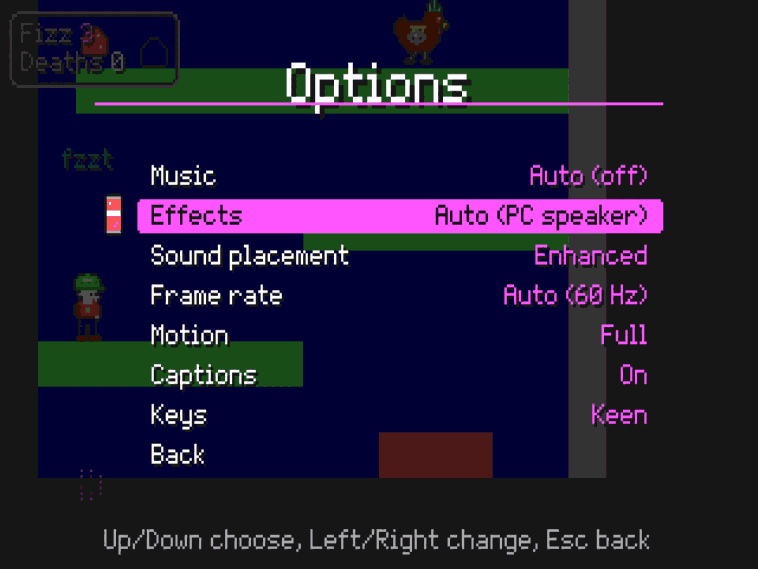
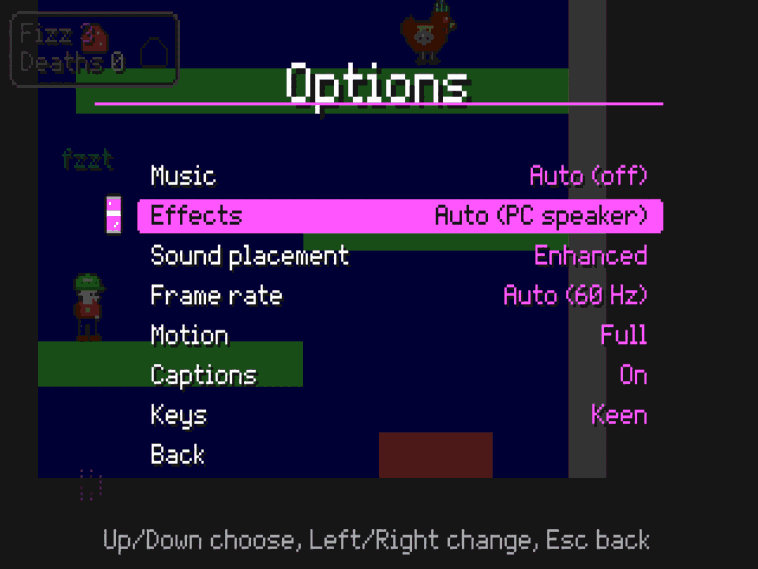
docs: describe the grape can and retake the menu screenshots
SPRITES.md, PLATFORM.md, the manual and the changelog say the can is
grape; the four manual screenshots that show it are retaken. The archive
media under tools/progress-report/media still show the red can and will be
retaken in the next archive refresh.

diff --git a/docs/PLATFORM.md b/docs/PLATFORM.md
@@ -233,7 +233,7 @@ The frame digests (`BENCH FRAME`, eleven ticks) now cover the whole frame instea
 
 The Options and Paused screens are drawn by `crates/fizz-present-dos/src/menu.rs` from the `RowList` that `fizz-menu` returns, in Fizz 1's DOS look (`options_screen` and `plate_rows` in its `shell.rs`). The layout is for the 320 by 200 frame this presenter owns; the Web draws its own overlay. The whole frame is dimmed once, when the screen opens (`MenuView::open`): every pixel `p` becomes `16 + (p & 15)`, the dimmed half of the palette the HUD box already uses (a pixel that is already dimmed keeps its colour), and the result is a second `Frame` held by the `MenuView`. Each redraw copies that background into the frame being presented and draws on top, so the picture beneath never changes while the screen is up. `draw_options`, `draw_paused` and `draw` return whether they drew: they compare a digest of everything the screen shows (heading, footer, the note, the can's height and every row's label, value and selection) with the last draw's, and a key that changed nothing, or any tick within the same 20-tick half of the bob, draws nothing and asks for no copy to the screen. `open` and `invalidate` force the next draw.
 
-The geometry, in pixels: the heading is white in the pixel font at 2x (`pfont::draw_text_scaled`) with a black shadow, centred, its top at y=22, with a one-pixel rule in the Fizz colour across x 40 to 279 at y=36 (the 'p' of Options reaches the rule's row and is drawn over it). Rows start at y=56 with a pitch of 14. The column is x 40 to 279: the left 18 pixels are the gutter and the plate takes the rest (x 58 to 279). The chosen row is a solid plate of the Fizz colour 12 pixels high with its four corner pixels left out, with its label at 6 pixels in and its value right-aligned 6 pixels from the right edge, both in black. Fizz 1's soda can (the `soda` sprite, exported from Fizz 1 with its bubbles recoloured to the Fizz colour) stands in the gutter at x=40, two pixels above the row, and rises one more pixel every 20 ticks. The other rows have a white label and a Fizz-coloured value, each with a one-pixel black shadow. When a row shows `*`, a grey note (`OVERRIDE_NOTE`) is at y=172, and a grey footer is centred at y=186: "Up/Down choose, Left/Right change, Esc back", or on Paused "Up and Down choose, Enter selects, Esc resumes". The pixel font has no arrows, so none are drawn. A test over every row of both platforms, every choice, every machine kind and every override marking checks that a label and its value fit the plate with a space between them, and that the note, footers and headings fit the frame. The screens are tested by pinned frame digests of Paused, each selected Options row, a `*` row and a missing-device row over a synthetic picture; the `MenuView` and a picture are about 130 KB, so the caller should keep them in a `static` or the heap rather than on the 256 KB stack with more.
+The geometry, in pixels: the heading is white in the pixel font at 2x (`pfont::draw_text_scaled`) with a black shadow, centred, its top at y=22, with a one-pixel rule in the Fizz colour across x 40 to 279 at y=36 (the 'p' of Options reaches the rule's row and is drawn over it). Rows start at y=56 with a pitch of 14. The column is x 40 to 279: the left 18 pixels are the gutter and the plate takes the rest (x 58 to 279). The chosen row is a solid plate of the Fizz colour 12 pixels high with its four corner pixels left out, with its label at 6 pixels in and its value right-aligned 6 pixels from the right edge, both in black. Fizz 1's soda can (the `soda` sprite, exported from Fizz 1 and recoloured grape: a light magenta body with white bubbles) stands in the gutter at x=40, two pixels above the row, and rises one more pixel every 20 ticks. The other rows have a white label and a Fizz-coloured value, each with a one-pixel black shadow. When a row shows `*`, a grey note (`OVERRIDE_NOTE`) is at y=172, and a grey footer is centred at y=186: "Up/Down choose, Left/Right change, Esc back", or on Paused "Up and Down choose, Enter selects, Esc resumes". The pixel font has no arrows, so none are drawn. A test over every row of both platforms, every choice, every machine kind and every override marking checks that a label and its value fit the plate with a space between them, and that the note, footers and headings fit the frame. The screens are tested by pinned frame digests of Paused, each selected Options row, a `*` row and a missing-device row over a synthetic picture; the `MenuView` and a picture are about 130 KB, so the caller should keep them in a `static` or the heap rather than on the 256 KB stack with more.
 
 `FIZZ2.EXE /MENUSHOT` (a hidden developer switch) draws the two screens over the slice's first frame (the Options screen with the cursor on Effects, the Frame rate row starred and a Sound Blaster 16 machine, then the Paused screen), presents each and prints `MENUSHOT options <digest>` and `MENUSHOT paused <digest>`. The host's `menushot` example (`cargo run -p fizz-present-dos --example menushot [dir]`) prints the same lines, and with a directory also writes `options.ppm` and `paused.ppm` in the DOS palette; `tools/check-dos.sh` requires the two sets of lines to be equal, so the DOS build is proved to draw the pixels the portable code does.
 
@@ -265,7 +265,7 @@ The Web page has two screens over the picture, Paused (Resume, Options, Restart)
 
 While a screen is up `App::frame` drops the pacer and returns 0, so no tick runs and the first frame after resuming only restarts the pacer: time spent in the menu is never caught up. `App::hold()` does the same on request. The rules, the replay and the state hash never read any menu state (a host test checks the hash is untouched; `tools/check-web-options.py` plays the golden replay with the screens opened and changed in the middle of it and checks `0edebb797e63edff`). The page releases every held key as a screen opens.
 
-`web/options.ts` has two halves. The pure half reads, migrates and writes one `localStorage` blob, `fizz2-options`, `{"v":1,"sound","music","placement","motion","captions","keys"}` with the words `on` or `off`, `enhanced` or `classic`, `system`, `reduced` or `full`, `keen` or `modern`; a field that is missing or wrong falls back to its default alone, and storage that throws gives the defaults. When the blob is absent the six older keys (`fizz2-layout`, `fizz2-captions`, `fizz2-motion`, `fizz2-audio`, `fizz2-sound`, `fizz2-music`) are read once, written as the blob and removed. `main.js` loads the blob into the module with `set_value`, applies every change as it happens (`Sfx.setMuted`, `setMode`, `Music.setEnabled`, the layout with `releaseAll`, `App::set_captions`, `App::set_shake`) and saves after each one; `Sfx` and `Music` are made with no storage of their own. A `?audio=` address is pushed as the Placement value and marked with `App::set_override`, so the row shows `Classic *` and the note `OVERRIDE_NOTE`; it is not saved unless the player changes the row. The DOM half is the overlay, in Fizz 1's Web menu look (`packages/engine/src/menu/rows.ts`, `rows.css` and `tokens.css`): a panel of `rgba(12, 12, 16, 0.82)`, the Fizz pixel font at the HUD's whole-number scale (kept small enough that a row fits a narrow stage), the selected row as a plate in `var(--fizz)` stepping through `#ff55ff`, `#ff77ff` and `#ff99ff` with ink `#1a001a` and Fizz 1's clipped corners, Fizz 1's soda can (light magenta bubbles) bobbing as the bullet, values muted and `◄ value ►` on the selected choice. It is a `role=dialog` with `aria-modal` holding a `role=menu` of `menuitem`s, each with an `aria-label` of the label and value; focus moves to the selected row on open and returns to where it was on close; a `role=status` live region says each change; the plate and the can stop under `prefers-reduced-motion` and when Motion resolves to Reduced. Rows are drawn once per screen and updated in place, so a pointer press is never lost to a rebuild. `web/options.test.ts` covers the pure half; `tools/check-web-options.py` drives the built page.
+`web/options.ts` has two halves. The pure half reads, migrates and writes one `localStorage` blob, `fizz2-options`, `{"v":1,"sound","music","placement","motion","captions","keys"}` with the words `on` or `off`, `enhanced` or `classic`, `system`, `reduced` or `full`, `keen` or `modern`; a field that is missing or wrong falls back to its default alone, and storage that throws gives the defaults. When the blob is absent the six older keys (`fizz2-layout`, `fizz2-captions`, `fizz2-motion`, `fizz2-audio`, `fizz2-sound`, `fizz2-music`) are read once, written as the blob and removed. `main.js` loads the blob into the module with `set_value`, applies every change as it happens (`Sfx.setMuted`, `setMode`, `Music.setEnabled`, the layout with `releaseAll`, `App::set_captions`, `App::set_shake`) and saves after each one; `Sfx` and `Music` are made with no storage of their own. A `?audio=` address is pushed as the Placement value and marked with `App::set_override`, so the row shows `Classic *` and the note `OVERRIDE_NOTE`; it is not saved unless the player changes the row. The DOM half is the overlay, in Fizz 1's Web menu look (`packages/engine/src/menu/rows.ts`, `rows.css` and `tokens.css`): a panel of `rgba(12, 12, 16, 0.82)`, the Fizz pixel font at the HUD's whole-number scale (kept small enough that a row fits a narrow stage), the selected row as a plate in `var(--fizz)` stepping through `#ff55ff`, `#ff77ff` and `#ff99ff` with ink `#1a001a` and Fizz 1's clipped corners, Fizz 1's soda can (a grape body, white bubbles, the same grid as the DOS sprite) bobbing as the bullet, values muted and `◄ value ►` on the selected choice. It is a `role=dialog` with `aria-modal` holding a `role=menu` of `menuitem`s, each with an `aria-label` of the label and value; focus moves to the selected row on open and returns to where it was on close; a `role=status` live region says each change; the plate and the can stop under `prefers-reduced-motion` and when Motion resolves to Reduced. Rows are drawn once per screen and updated in place, so a pointer press is never lost to a rebuild. `web/options.test.ts` covers the pure half; `tools/check-web-options.py` drives the built page.
 
 ## Running the checks
 

diff --git a/CHANGELOG.md b/CHANGELOG.md
@@ -5,6 +5,7 @@ What changed in each release of Lieutenant Fizz 2, in plain language for players
 ## Unreleased
 
 - Every word has a sound, as in Lieutenant Fizz 1, and so does the jump: `fzzt`, `fizzled`, `bonk`, `whoa!`, `ta-da!`, the gumdrops, `clunk`, `click - no fizz`, `boing`, a jump and `crunch` (eleven new effects, written as Undertone voices with FM and pitch steps; the chicken keeps its four clucks). They come from where they happen, panned and softened like the cluck, on the Web, and on DOS through the Sound Blaster's stereo pair, the AdLib's one voice or the PC speaker, whichever the computer has. They play with the Captions setting on or off, a sound is not left out when its word is, and on DOS the newest sound cuts the one before it off, as in Fizz 1. The sounds are first drafts and nobody has listened to them yet. On the Web, the panel you open with `H` has a new list, "Hear an effect", that plays any of the fifteen by itself. `FIZZ2.EXE` grows by about 10 KB (the sounds are 6 KB of that). All hashes are unchanged.
+- The fizzy drink can in the Paused and Options screens is purple now, the grape colour of Fizz in this game, with white bubbles, on DOS and on the Web (it was Fizz 1's red). Only the can's colours change; all hashes are unchanged.
 - `FIZZ2.EXE /BENCH` also times the picture with six captions on screen and prints the extra cost; with `/AUDIO` it does the same while effects play.
 - Show a word where things happen, as Lieutenant Fizz 1 does: `fzzt`, `click - no fizz`, `fizzled`, `bonk`, `whoa!`, `ta-da!`, the red, blue and green `gumdrop`, `clunk` for doors and head bumps, `boing` and `crunch`, in Fizz 1's colours, on the Web and on DOS, and hidden by the Captions setting (which still hides only the words). A repeat of the same word within a fifth of a second is left out, six words show at most, and a word far outside the picture is not shown. A new table in `fizz-slice-view` also names the sound each event uses (ids 0 to 14). The chicken's own caption and all hashes are unchanged.
 - The gallery at the top of the level is now a small playground: a snack nook with cheezies, a chocolate bar, a cookie and a blue key on a shelf you reach on the pogo stick, a blue door in front of the exit, and a spot to bump your head. Taking a snack, bumping, bouncing, the empty blaster click and opening the blue door all happen in play now, each with its sound. The built-in test run is longer (1,681 steps, about 28 seconds on DOS).

diff --git a/docs/SPRITES.md b/docs/SPRITES.md
@@ -72,7 +72,7 @@ Where a shot ends Fizz 1 pushes a 16 by 16 `puff` (`puff()` in `enemies.ts`: a d
 
 ## The Fizz recolour
 
-Fizz 2 draws everything called Fizz in one accent colour, light magenta (EGA 13, `#ff55ff`, "grape"), defined once in `crates/fizz-view/src/theme.rs`; Fizz 1 draws them in cyan. The recolour is a step of `tools/sprites/export-fizz1.ts`, not a hand edit of the grids: `FIZZ_RECOLOUR` lists, by sprite name, the letters to swap after the Fizz 1 grid is read and before it is written (light cyan `c` to light magenta `m`; cyan `C` and light blue `b`, the puff's core and the shot's body, to magenta `M`), so `fizz1-slice.json` stays a pure function of Fizz 1 and the table, and two runs give identical bytes. It covers `bubble` (Ben's shot) and `puff0` to `puff3`. The table also names `soda`, Fizz 1's soda can, whose two bubble pixels are light cyan: the can is not in the slice yet, and the entry takes effect when it joins `SLICE_NAMES`. After changing the table, run the exporter, then `bun tools/sprites/emit-rust.ts`; `--check` stays green only when both are done.
+Fizz 2 draws everything called Fizz in one accent colour, light magenta (EGA 13, `#ff55ff`, "grape"), defined once in `crates/fizz-view/src/theme.rs`; Fizz 1 draws them in cyan. The recolour is a step of `tools/sprites/export-fizz1.ts`, not a hand edit of the grids: `FIZZ_RECOLOUR` lists, by sprite name, the letters to swap after the Fizz 1 grid is read and before it is written (light cyan `c` to light magenta `m`; cyan `C` and light blue `b`, the puff's core and the shot's body, to magenta `M`), so `fizz1-slice.json` stays a pure function of Fizz 1 and the table, and two runs give identical bytes. It covers `bubble` (Ben's shot) and `puff0` to `puff3`. It also covers `soda`, Fizz 1's soda can (the menus' bullet), recoloured as a whole since the can became grape: its light red body `r` becomes light magenta `m`, and its two light cyan bubble pixels `c` become white `W` (light magenta bubbles would vanish on a light magenta body); the grey rim, the white band and highlight and the black outline are kept. The Web Options overlay's `SODA_ROWS` is the same grid, and `web/options.test.ts` compares it to `fizz1-slice.json`. After changing the table, run the exporter, then `bun tools/sprites/emit-rust.ts`; `--check` stays green only when both are done.
 
 ## Which Ben frame the slice shows
 

diff --git a/docs/MANUAL.md b/docs/MANUAL.md
@@ -354,7 +354,7 @@ The page is the game: the picture fills the whole window and nothing scrolls. It
 
 Press `Esc` (or the Pause key) and the game stops. A dark panel opens over the picture with three rows: Resume, Options and Restart. Move with Up and Down, choose with Enter, Space or the mouse, and press `Esc` again to resume. Restart starts the level again from the first tick, and Options opens the settings. The game is held for as long as either screen is up: nothing moves, the tick stops, and when you resume it carries on from where it stopped, with no catching up. The `Options (Esc)` button in the `H` panel opens the settings directly, and Back from there goes back to the game. In fullscreen the browser uses the first `Esc` to leave fullscreen; press `Esc` or the Pause key again to pause.
 
-The selected row is a bright light magenta plate (the grape colour of Fizz 2) that shimmers through three shades, with a can of fizzy drink bobbing beside it; Fizz 1's menus look the same in amber. On a row you can change, the selected row shows `◄ value ►`; Left steps back one choice, Right, Enter and Space step forward, and the choices wrap round. With the mouse, hovering a row selects it, clicking steps it, and clicking the arrows steps it the way the arrow points. A change takes effect at once and is remembered. The rows are:
+The selected row is a bright light magenta plate (the grape colour of Fizz 2) that shimmers through three shades, with a purple can of fizzy drink (grape, with white bubbles) bobbing beside it; Fizz 1's menus look the same in amber. On a row you can change, the selected row shows `◄ value ►`; Left steps back one choice, Right, Enter and Space step forward, and the choices wrap round. With the mouse, hovering a row selects it, clicking steps it, and clicking the arrows steps it the way the arrow points. A change takes effect at once and is remembered. The rows are:
 
 | Row | Choices | What it does |
 | --- | --- | --- |

diff --git a/WORKLOG.md b/WORKLOG.md
@@ -84,3 +84,4 @@ P5 m4/pair-label: print the OPL3 effects pair as ch5+14 in the SOUND line (FxPla
 - add two planned M4.5 ideas (one OPL3 stream with a skippable second bank; compact and compress music streams) and a note that the asset pack compresses from the start; docs only
 - refresh the archive after Milestone 4 (#99 to #108): gh snapshot, retaken captures with the snack nook and the effect list, measured numbers, the owner's playtest of 2026-10-29, the M4.5 audit node and the M2 format note; docs and archive tooling only
 - Fix the archive's contents table and the stack chapter: the chapter column no longer gets squeezed by long pull request lists, and chapter 6 and the front page name Milestone 0's stack, not the biggest one
+- recolour the fizz can grape: the soda sprite is recoloured as a whole (body light magenta, bubbles white), the Web Options can is now the same grid and a test keeps them equal, menu digests and the manual screenshots retaken; the archive media will be retaken in the next archive refresh; view only, hashes unchanged
